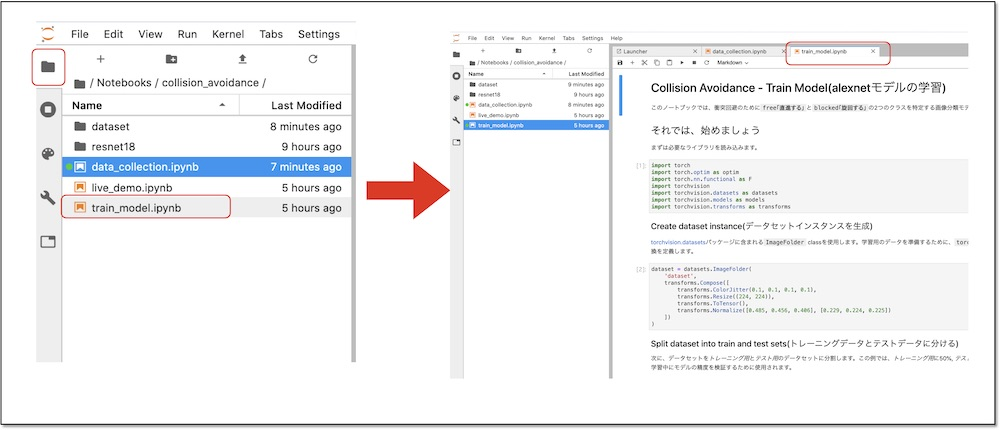
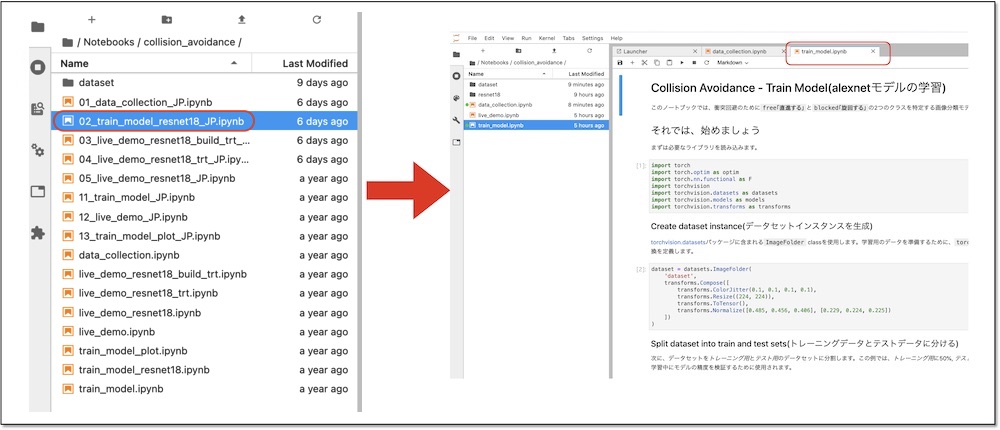
ファイル名の修正

Changed region(s): [[0.031, 0.0302, 0.372, 0.9674]]

diff --git a/docs/07.Collision Avoidance/03.train.md b/docs/07.Collision Avoidance/03.train.md
@@ -8,7 +8,7 @@
 
 Jupyter上で、~/Notebooks/collision_avoidance/02_train_model_resnet18_JP.ipynbを開きます。
 
-![](./img/train001.jpg)
+![](./img/train001_2.jpg)
 
 01_data_collection_JP.ipynbのプロセスをshutdownします。
 
@@ -16,8 +16,4 @@ Jupyter上で、~/Notebooks/collision_avoidance/02_train_model_resnet18_JP.ipynb
 
 Notebookのcellを実行していくと、最後に学習が始まります。30エポック学習します。
 
-![](./img/how002.jpg)
-
-best_model_resnet18.pthが生成されれば、学習は成功です。
-
-![](./img/result001.jpg)
+![](./img/train_finish.jpg)

diff --git a/docs/07.Collision Avoidance/05.run.md b/docs/07.Collision Avoidance/05.run.md
@@ -8,9 +8,9 @@
 
 ![](./img/kill007.png)
 
-## 自動走行(05_live_demo_resnet18_JP.ipynb)
+## 自動走行(04_live_demo_resnet18_trt_JP.ipynb)
 
-Jupyter上で、~/Notebooks/collision_avoidance/05_live_demo_resnet18_JP.ipynbを開きます。
+Jupyter上で、~/Notebooks/collision_avoidance/05_live_demo_resnet18_trt_JP.ipynbを開きます。
 
 Notebookを実行していき、下記画面がでてきたら、``[start jetbot]``をクリックし、推論での走行を実行します。(学習済みモデルの読み込みで起動までに20数秒かかります。)
 

diff --git a/docs/07.Collision Avoidance/02.dataset.md b/docs/07.Collision Avoidance/02.dataset.md
@@ -9,7 +9,7 @@
 Jupyter上で、`~/Notebooks/collision_avoidance/01_data_collecion_JP.ipynb`を開きます。  
 「~」はチルダと呼び、ホームディレクトリ(/home/jetbot)のことを指します。
 
-![](./img/menu001.jpg)
+![](./img/menu001_2.jpg)
 
 Jupyterを実行していくと、datasetディレクトリが生成され、その下に「blocked」と「free」に分類して画像が保存されます。
 

diff --git a/docs/06.Basic Motion/01.run.md b/docs/06.Basic Motion/01.run.md
@@ -8,11 +8,11 @@ PCのブラウザでJetBotのIPアドレスの8888ポートに接続します。
 
 ## Notebookを開く
 
-`/Notebooks/basic_motion/basic_motion.ipynb` を開きます。
+`/Notebooks/basic_motion/01_basic_motion_JP.ipynb` を開きます。
 
 ![](./img/motion001.png)
 
-![](./img/motion002.png)
+![](./img/basic001.png)
 
 ## Notebookの実行
 
